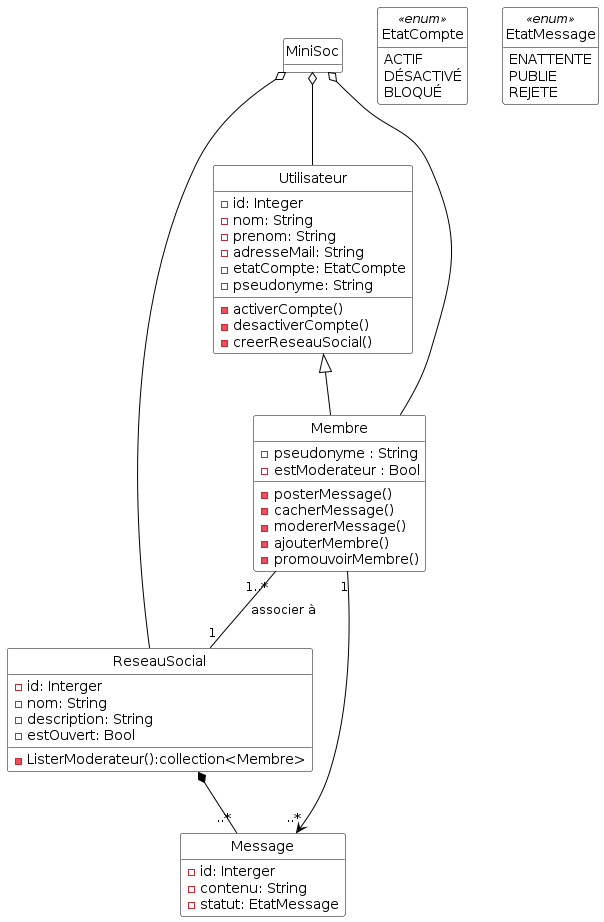
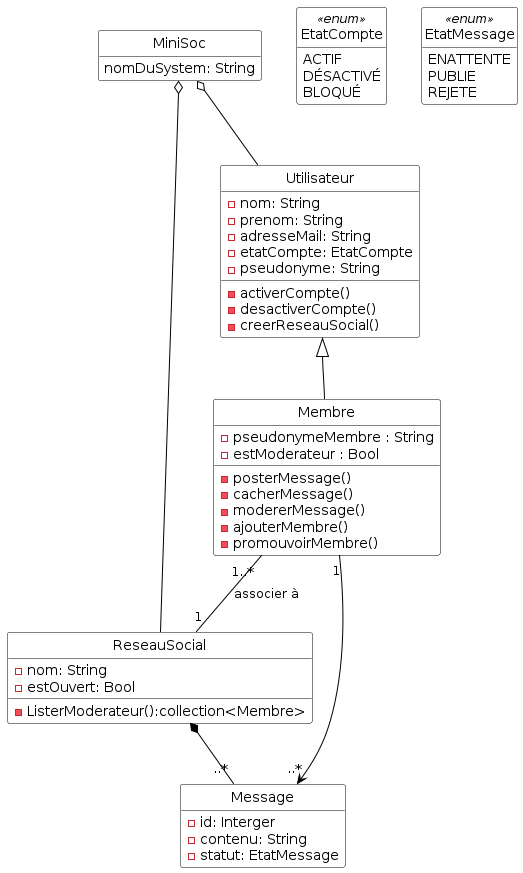
les classes du 1er cas d'utilisation creer reseau social (membre/reseausocial) et le fonction creerReseauSocial() dans MiniSoc

diff --git a/src/main/java/eu/telecomsudparis/csc4102/minisocs/Membre.java b/src/main/java/eu/telecomsudparis/csc4102/minisocs/Membre.java
@@ -1,0 +1,94 @@
+package eu.telecomsudparis.csc4102.minisocs;
+
+/**
+ * Cette classe représente un membre du réseau social, qui est une spécialisation
+ * d'un utilisateur avec des fonctionnalités et des attributs supplémentaires,
+ * notamment un pseudonyme spécifique au membre et un indicateur de modérateur.
+ * 
+ * Elle hérite de la classe Utilisateur et ajoute des attributs et méthodes propres
+ * aux membres du réseau social.
+ * 
+ */
+public class Membre extends Utilisateur {
+    /**
+     * Le pseudonyme spécifique du membre dans le réseau social.
+     * Ce champ est ajouté pour illustrer la demande, bien que potentiellement redondant.
+     */
+    private String pseudonymeMembre;
+
+    /**
+     * Indique si le membre a des droits de modérateur dans le réseau social.
+     */
+    private boolean estModerateur;
+
+    /**
+     * Indique le réseau social auquel ce membre fait partir.
+     */
+
+    private ReseauSocial reseauSocial;
+    /**
+     * Construit un membre du réseau social avec les informations spécifiées.
+     * 
+     * @param pseudonyme le pseudonyme de l'utilisateur.
+     * @param nom le nom de l'utilisateur.
+     * @param prenom le prénom de l'utilisateur.
+     * @param courriel l'adresse courriel de l'utilisateur.
+     * @param pseudonymeMembre le pseudonyme spécifique du membre dans le réseau social.
+     * @param estModerateur indique si le membre est modérateur.
+     * @param reseauSocial indique le réseau social auquel ce membre fait partir.
+     */
+
+    public Membre(Utilisateur utilisateur, final String pseudonymeMembre, final boolean estModerateur, final ReseauSocial reseauSocial) {
+
+        // Appel du constructeur de la super classe Utilisateur avec les attributs récupérés de l'objet utilisateur existant
+        super(utilisateur.getPseudonyme(), utilisateur.getNom(), utilisateur.getPrenom(), utilisateur.getCourriel()); 
+        // Vérification pseudonymeMembre est non null non vide , utilisateur non null
+        if (pseudonymeMembre == null || pseudonymeMembre.isBlank()) {
+            throw new IllegalArgumentException("pseudonymeMembre ne peut pas être null ou vide");
+        }
+        if(reseauSocial==null){
+            throw new IllegalArgumentException("Le réseau social ne peux pas null");
+        }
+        // Initialisation des attributs spécifiques à Membre
+        this.pseudonymeMembre = pseudonymeMembre;
+        this.estModerateur = estModerateur;
+        this.reseauSocial = reseauSocial;
+    }
+
+    /**
+     * Obtient le pseudonyme spécifique du membre.
+     * 
+     * @return le pseudonyme spécifique du membre.
+     */
+    public String getPseudonymeMembre() {
+        return pseudonymeMembre;
+    }
+
+    /**
+     * Définit le pseudonyme spécifique du membre.
+     * 
+     * @param pseudonymeMembre le nouveau pseudonyme spécifique du membre.
+     */
+    public void setPseudonymeMembre(String pseudonymeMembre) {
+        this.pseudonymeMembre = pseudonymeMembre;
+    }
+
+    /**
+     * Vérifie si le membre est modérateur.
+     * 
+     * @return {@code true} si le membre est modérateur, sinon {@code false}.
+     */
+    public boolean estModerateur() {
+        return estModerateur;
+    }
+
+    /**
+     * Définit le statut de modérateur du membre.
+     * 
+     * @param estModerateur le nouveau statut de modérateur du membre.
+     */
+    public void setEstModerateur(boolean estModerateur) {
+        this.estModerateur = estModerateur;
+    }
+    njknkjblkb
+}

diff --git a/src/main/java/eu/telecomsudparis/csc4102/minisocs/MiniSocs.java b/src/main/java/eu/telecomsudparis/csc4102/minisocs/MiniSocs.java
@@ -22,7 +22,7 @@ public class MiniSocs {
 	 * les utilisateurs.
 	 */
 	private final Map<String, Utilisateur> utilisateurs;
-
+	private final Map<String, ReseauSocial> reseauSociaux;
 	/**
 	 * construit une instance du système.
 	 * 
@@ -31,6 +31,7 @@ public class MiniSocs {
 	public MiniSocs(final String nomDuSysteme) {
 		this.nomDuSysteme = nomDuSysteme;
 		this.utilisateurs = new HashMap<>();
+		this.reseauSociaux = new HashMap<>();
 	}
 
 	/**
@@ -39,7 +40,7 @@ public class MiniSocs {
 	 * @return {@code true} si l'invariant est respecté.
 	 */
 	public boolean invariant() {
-		return nomDuSysteme != null && !nomDuSysteme.isBlank() && utilisateurs != null;
+		return nomDuSysteme != null && !nomDuSysteme.isBlank() && utilisateurs != null && reseauSociaux!=null;
 	}
 
 	/**
@@ -118,5 +119,34 @@ public class MiniSocs {
 	@Override
 	public String toString() {
 		return "MiniSocs [nomDuSysteme=" + nomDuSysteme + ", utilisateurs=" + utilisateurs + "]";
+	}
+
+	public void creerReseauSocial(final String pseudoUtilisateur,final String pseudoMembre, final String nomReseau) throws OperationImpossible {
+		if (pseudoUtilisateur == null || pseudoUtilisateur.isBlank()) {
+			throw new OperationImpossible("pseudo utilisateur ne peut pas être null ou vide");
+		}
+		if (nomReseau == null || nomReseau.isBlank()) {
+			throw new OperationImpossible("le nom du réseau ne peut pas être null ou vide");
+		}
+		if (pseudoMembre == null || pseudoMembre.isBlank()) {
+			throw new OperationImpossible("pseudo membre ne peut pas être null ou vide");
+		}
+		ReseauSocial r = reseauSociaux.get(nomReseau);
+		if (r!=null) {
+			throw new OperationImpossible("un réseau avec ce nom existe");	
+		}
+		Utilisateur u = utilisateurs.get(pseudoUtilisateur);
+		if (u == null) {
+			throw new OperationImpossible("utilisateur inexistant avec ce pseudo (" + pseudoUtilisateur + ")");
+		}
+		if (u.getEtatCompte().equals(EtatCompte.BLOQUE)) {
+			throw new OperationImpossible("le compte est bloqué");
+		}
+		if (u.getEtatCompte().equals(EtatCompte.DESACTIVE)) {
+			throw new OperationImpossible("le compte est DESACTIVE");	
+		}
+		reseauSociaux.put(nomReseau,new ReseauSocial(nomReseau,true));
+		reseauSociaux.get(nomReseau).ajouterMembre(new Membre(u,pseudoMembre,true,reseauSociaux.get(nomReseau)));
+		assert invariant();
 	}
 }

diff --git a/src/main/java/eu/telecomsudparis/csc4102/minisocs/ReseauSocial.java b/src/main/java/eu/telecomsudparis/csc4102/minisocs/ReseauSocial.java
@@ -1,0 +1,37 @@
+package eu.telecomsudparis.csc4102.minisocs;
+import java.util.ArrayList;
+import java.util.List;
+
+public class ReseauSocial {
+    private String nom;
+    private boolean estOuvert;
+    private List<Membre> membres; // Liste de tous les membres du réseau social
+
+    public ReseauSocial(String nom, boolean estOuvert) {
+        this.nom = nom;
+        this.estOuvert = estOuvert;
+        this.membres = new ArrayList<>();
+    }
+
+    public String getNom() {
+        return nom;
+    }
+
+    public void setNom(String nom) {
+        this.nom = nom;
+    }
+
+
+    public boolean isEstOuvert() {
+        return estOuvert;
+    }
+
+    public void setEstOuvert(boolean estOuvert) {
+        this.estOuvert = estOuvert;
+    }
+
+    // Méthode pour ajouter un membre au réseau social
+    public void ajouterMembre(Membre membre) {
+        membres.add(membre);
+    }
+}

diff --git a/src/main/java/eu/telecomsudparis/csc4102/minisocs/Utilisateur.java b/src/main/java/eu/telecomsudparis/csc4102/minisocs/Utilisateur.java
@@ -89,6 +89,32 @@ public class Utilisateur {
 		return etatCompte;
 	}
 
+	 /**
+     * Obtient le nom de l'utilisateur.
+     * 
+     * @return Le nom de l'utilisateur.
+     */
+    public String getNom() {
+        return nom;
+    }
+
+    /**
+     * Obtient le prénom de l'utilisateur.
+     * 
+     * @return Le prénom de l'utilisateur.
+     */
+    public String getPrenom() {
+        return prenom;
+    }
+
+    /**
+     * Obtient l'adresse courriel de l'utilisateur.
+     * 
+     * @return L'adresse courriel de l'utilisateur.
+     */
+    public String getCourriel() {
+        return courriel;
+    }
 	/**
 	 * rend inactif le compte de l'utilisateur. L'opération est
 	 * idempotente. L'opération est refusée si le compte n'est pas actif.

diff --git a/readme.md b/readme.md
@@ -117,10 +117,13 @@ priorité HAUTE.
 
 #### Créer réseau social (HAUTE)
 - précondition : \
-^ Le compte de l'utilisateur est (actif ∧ non bloqué) \
+^ pseudonyme!= null && nomReseau!=null
+^ Utilisateur existe \
+^ Etat du compte utilisateur Actif \
+^ Reseau n'existe pas \
 ∧ postcondition : \
-∧ Le réseau est créé
-∧ L'utilisateur avec droit de modération du réseau 
+∧ Le réseau est créé \
+∧ Un membre est créer avec droit de modération
 
 
 NB : l'opération est idempotente.
